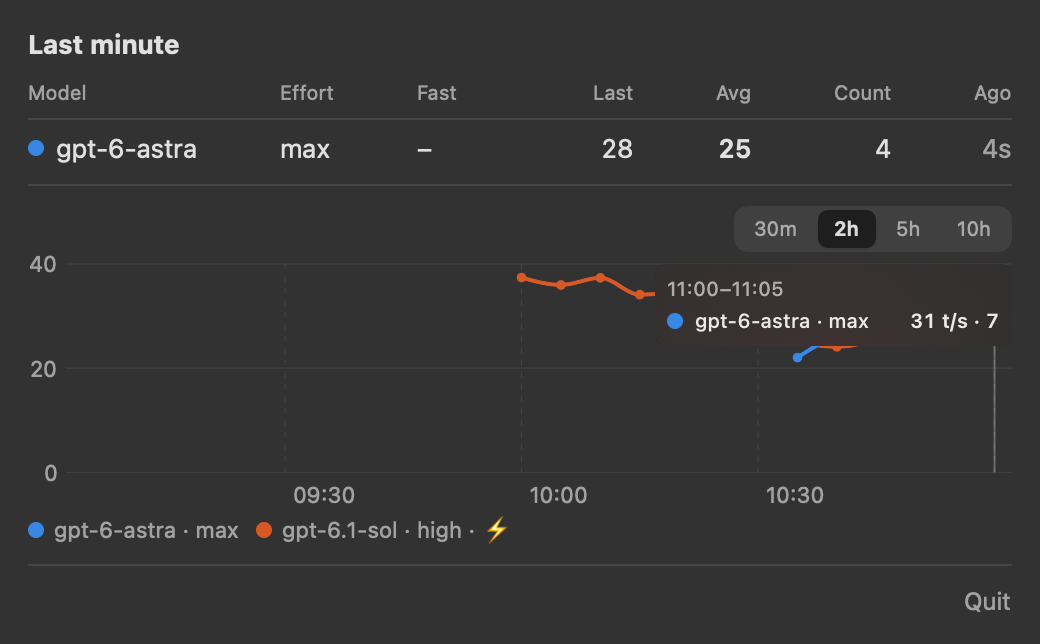
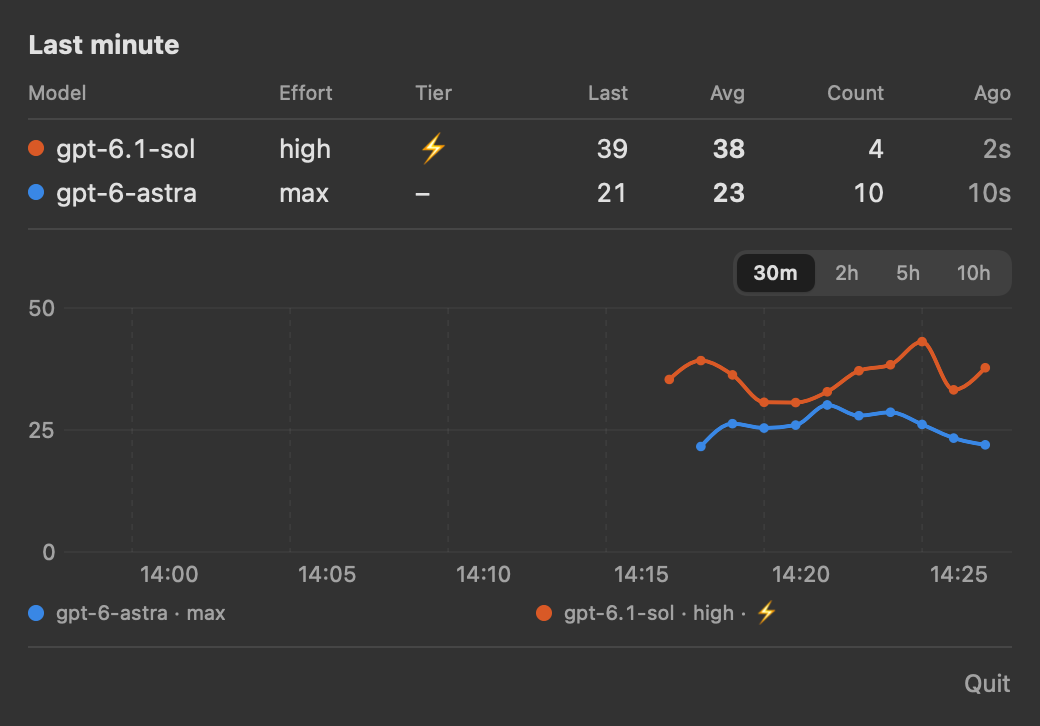
fix: show hover values in the legend instead of a tooltip over the chart
The floating tooltip covered the plot. The hovered interval now appears
next to the range picker and each legend entry shows its TPS and response
count for that interval, so only the cursor line is drawn on the chart.

diff --git a/Sources/CodexTPS/TPSChart.swift b/Sources/CodexTPS/TPSChart.swift
@@ -88,8 +88,15 @@ struct TPSChart: View {
         let series = stats.chartSeries(range)
         let start = stats.now.addingTimeInterval(-range.duration)
 
+        let hovered = selection.bucket.map { b in points.filter { $0.bucket == b } }
+
         VStack(alignment: .leading, spacing: 6) {
             HStack {
+                if let b = selection.bucket {
+                    Text(intervalTitle(b, range: range))
+                        .font(.caption.monospacedDigit())
+                        .foregroundStyle(.secondary)
+                }
                 Spacer()
                 RangePicker(selection: selection)
             }
@@ -122,9 +129,6 @@ struct TPSChart: View {
                         RuleMark(x: .value("Time", b))
                             .foregroundStyle(Color.secondary.opacity(0.5))
                             .lineStyle(StrokeStyle(lineWidth: 1))
-                            .annotation(position: .top, spacing: 0, overflowResolution: .init(x: .fit(to: .chart), y: .fit(to: .chart))) {
-                                tooltip(bucket: b, range: range, points: points.filter { $0.bucket == b })
-                            }
                     }
                 }
                 .chartForegroundStyleScale(
@@ -148,45 +152,46 @@ struct TPSChart: View {
                         AxisValueLabel()
                     }
                 }
-                .chartLegend(series.count > 1 ? .visible : .hidden)
+                .chartLegend(.hidden)
                 .chartXSelection(value: Binding(
                     get: { selection.bucket },
                     set: { selection.bucket = $0.map(range.bucketStart) }
                 ))
                 .frame(height: 140)
+
+                legend(series: series, hovered: hovered)
             }
         }
     }
 
-    private func tooltip(bucket: Date, range: ChartRange, points: [ChartPoint]) -> some View {
-        VStack(alignment: .leading, spacing: 3) {
-            Group {
-                if range.bucket <= 60 {
-                    Text(bucket, format: .dateTime.hour().minute())
-                } else {
-                    Text("\(bucket.formatted(.dateTime.hour().minute()))–\(bucket.addingTimeInterval(range.bucket).formatted(.dateTime.hour().minute()))")
-                }
-            }
-            .font(.caption2)
-            .foregroundStyle(.secondary)
-            if points.isEmpty {
-                Text("No responses").font(.caption2).foregroundStyle(.tertiary)
-            }
-            ForEach(points) { p in
+    /// Doubles as the hover readout, so values never cover the plot.
+    private func legend(series: [GroupKey], hovered: [ChartPoint]?) -> some View {
+        LazyVGrid(columns: [GridItem(.adaptive(minimum: 210), spacing: 16, alignment: .leading)], alignment: .leading, spacing: 4) {
+            ForEach(series, id: \.self) { key in
                 HStack(spacing: 6) {
                     Circle()
-                        .fill(SeriesPalette.color(slot: stats.slot(of: p.key)))
+                        .fill(SeriesPalette.color(slot: stats.slot(of: key)))
                         .frame(width: 8, height: 8)
-                    Text(p.key.label).font(.caption2)
+                    Text(key.label)
+                        .foregroundStyle(.secondary)
+                        .lineLimit(1)
                     Spacer(minLength: 8)
-                    Text("\(Int(p.tps.rounded())) t/s · \(p.count)")
-                        .font(.caption2.monospacedDigit())
-                        .bold()
+                    if let hovered {
+                        if let p = hovered.first(where: { $0.key == key }) {
+                            Text("\(Int(p.tps.rounded())) t/s · \(p.count)").bold()
+                        } else {
+                            Text("—").foregroundStyle(.tertiary)
+                        }
+                    }
                 }
+                .font(.caption.monospacedDigit())
             }
         }
-        .padding(6)
-        .background(.regularMaterial, in: RoundedRectangle(cornerRadius: 6))
-        .fixedSize()
+    }
+
+    private func intervalTitle(_ bucket: Date, range: ChartRange) -> String {
+        let f = Date.FormatStyle.dateTime.hour().minute()
+        if range.bucket <= 60 { return bucket.formatted(f) }
+        return "\(bucket.formatted(f))–\(bucket.addingTimeInterval(range.bucket).formatted(f))"
     }
 }

diff --git a/README.md b/README.md
@@ -6,8 +6,8 @@ macOS menu bar app that shows live output tokens per second for the Codex deskto
 - Popover: per model × effort × tier table for the last minute and a chart for 30m / 2h / 5h / 10h.
 
 <p>
-  <img src="docs/popover-light.png" width="49%" alt="Popover in light mode: last-minute table and 30-minute TPS chart">
-  <img src="docs/popover-dark.png" width="49%" alt="Popover in dark mode: 2-hour chart with hover tooltip">
+  <img src="docs/popover-light.png" width="49%" alt="Popover in light mode: 10-hour chart, hovered interval values shown in the legend">
+  <img src="docs/popover-dark.png" width="49%" alt="Popover in dark mode: last-minute table and 30-minute TPS chart">
 </p>
 
 ## How it works
